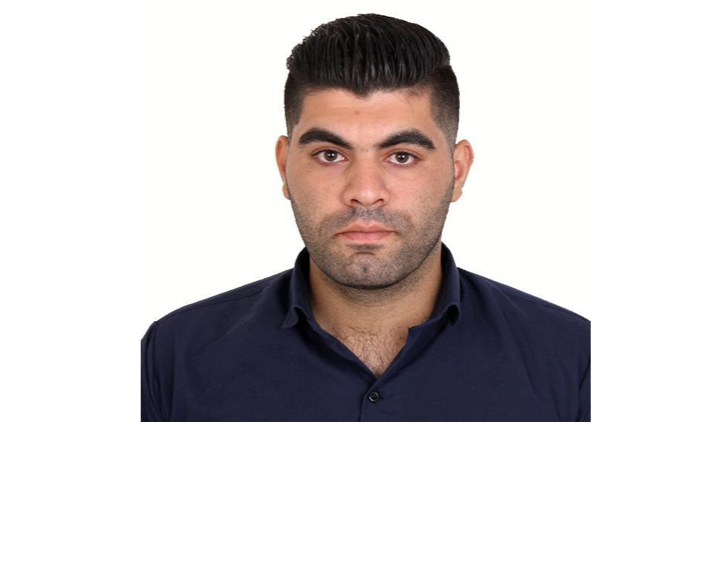
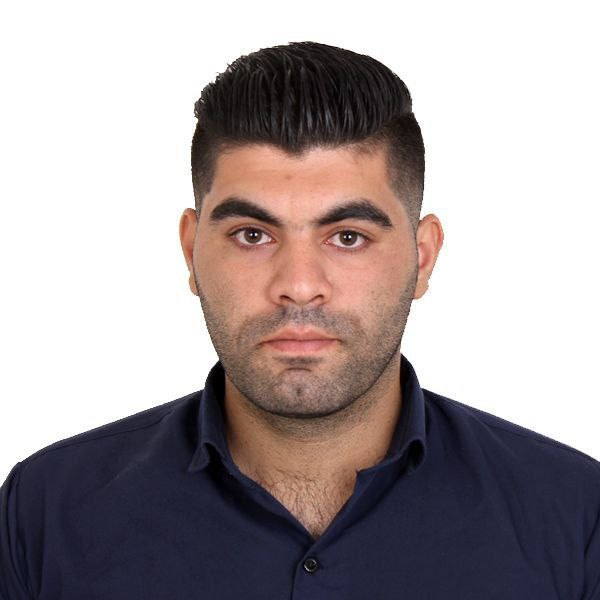
Replace photo with original.jpg and set perfect 600x600 square frame

diff --git a/styles.css b/styles.css
@@ -137,16 +137,15 @@ svg {
 }
 
 .profile-photo {
-    width: 100%;
-    max-width: 600px;
+    width: 600px;
     height: 600px;
+    max-width: 600px;
+    max-height: 600px;
     aspect-ratio: 1 / 1;
     object-fit: contain;
-    object-position: center 30%;
+    object-position: center center;
     border-radius: 1.5rem;
-    display: flex;
-    align-items: center;
-    justify-content: center;
+    display: block;
     transition: all 0.5s cubic-bezier(0.4, 0, 0.2, 1);
     box-shadow: 
         0 10px 40px rgba(0, 0, 0, 0.4),
